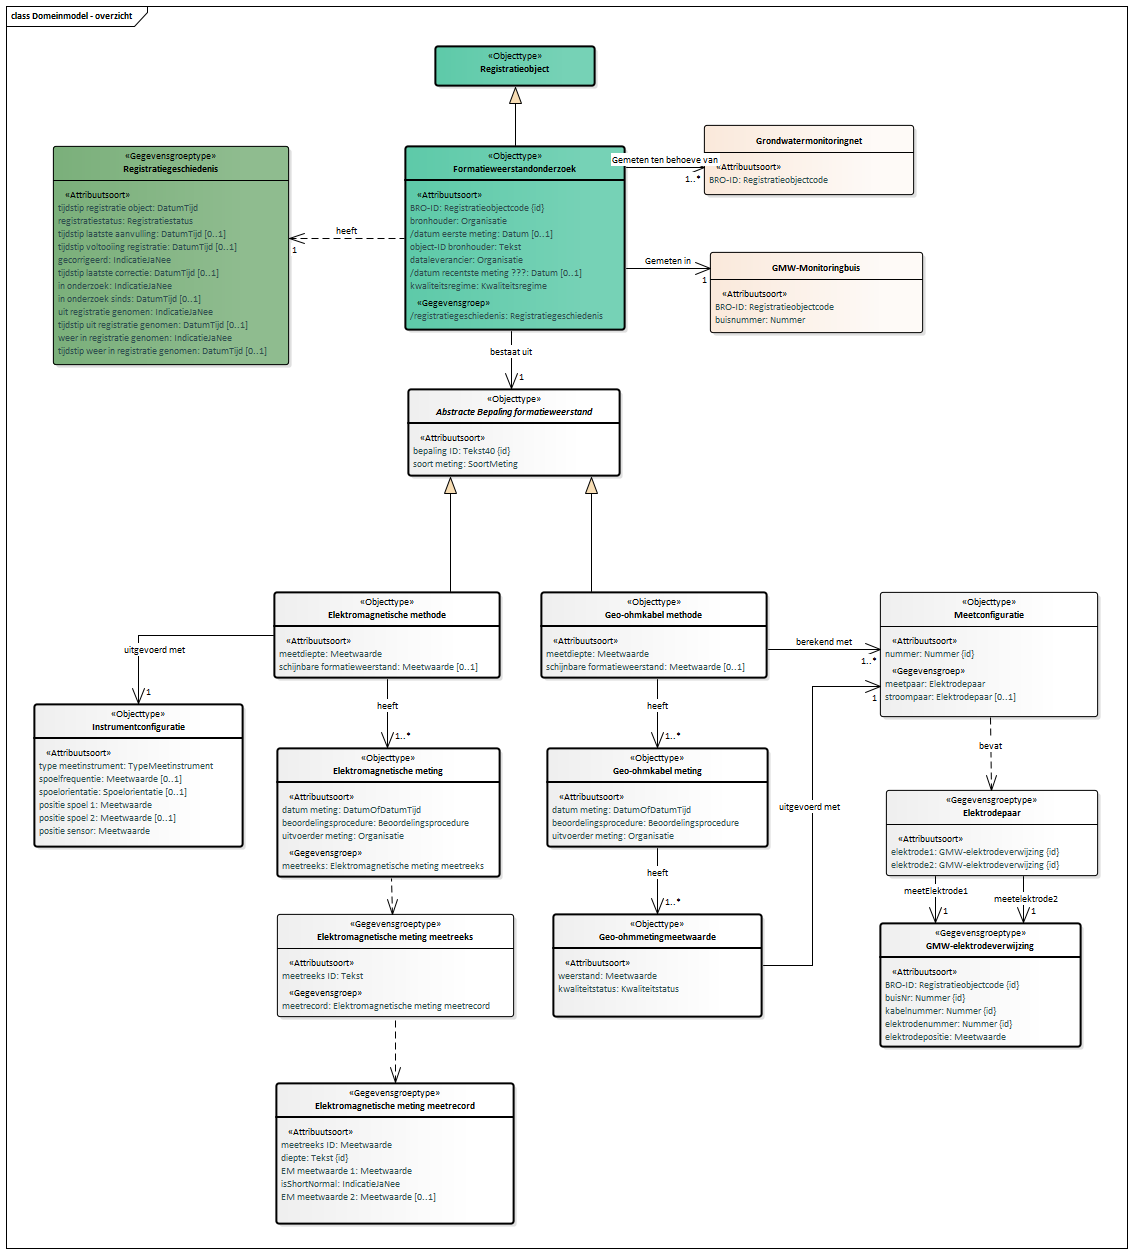
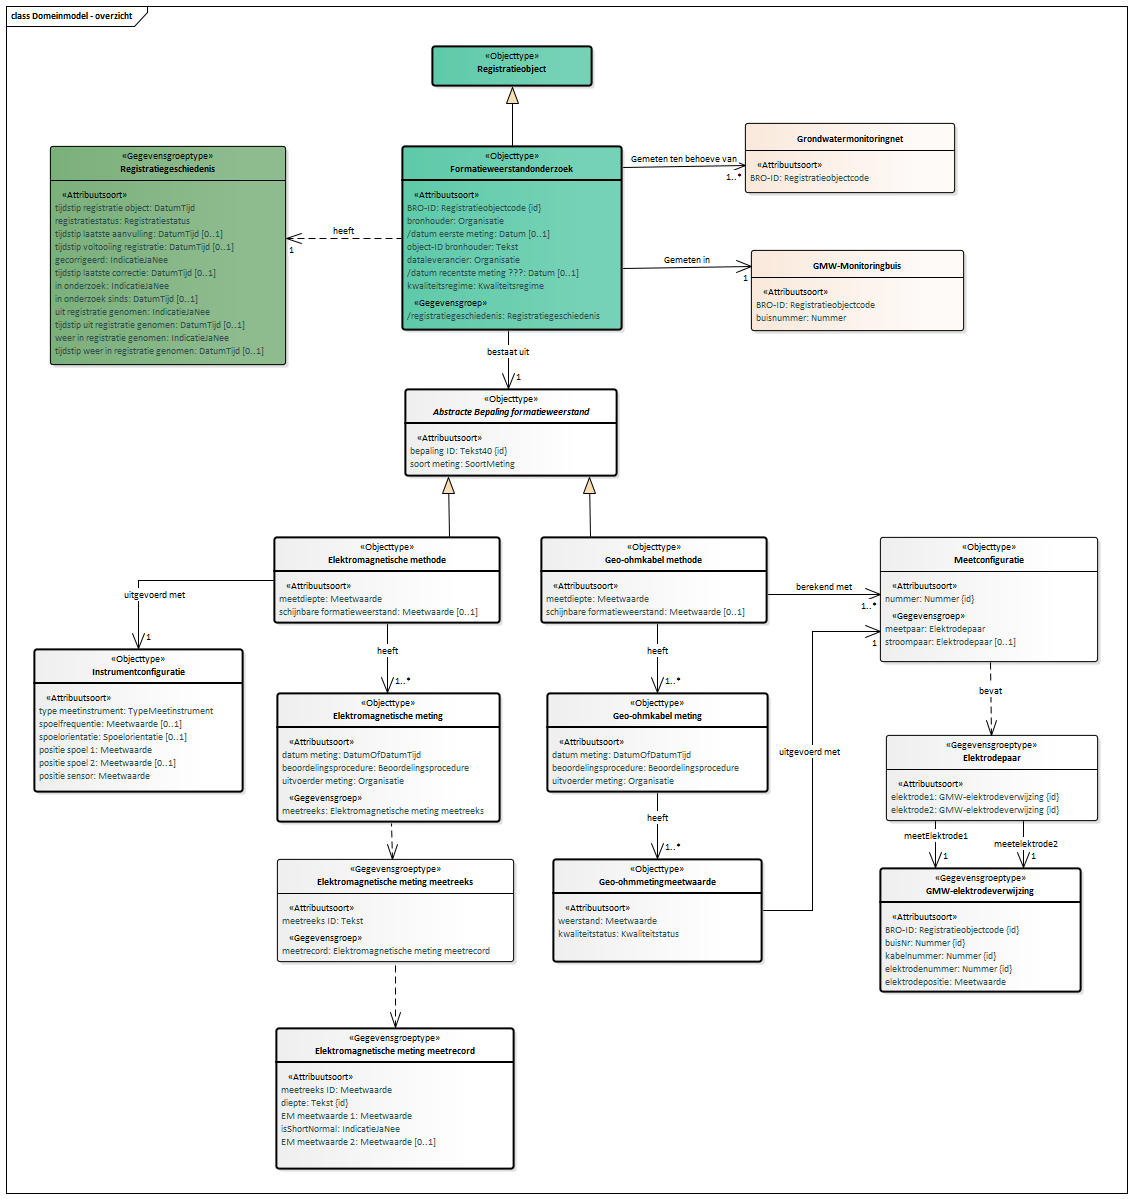
Conceptualmodel-FormatieweerstandonderzoekFRDconceptueel-0.1-1-20200401-20200817-172622

diff --git a/data/FRD-cat.msword.html b/data/FRD-cat.msword.html
@@ -15,7 +15,7 @@
    <body>
       <p>Conceptual model/Formatieweerstand onderzoek (FRD) conceptueel/20200401</p>
       <p>Imvertor: 1.61.2</p>
-      <p>Model release: Conceptualmodel-FormatieweerstandonderzoekFRDconceptueel-0.1-1-20200401-20200817-172333</p>
+      <p>Model release: Conceptualmodel-FormatieweerstandonderzoekFRDconceptueel-0.1-1-20200401-20200817-172622</p>
       <hr>
       <section>
          <h1>Artikel 1 Definitie van registratieobject, entiteiten en attributen</h1>
@@ -60,7 +60,7 @@
          <section>
             <h2>Het domeinmodel</h2>
             <section id="">
-               <div class="imageinfo overview"><img src="Images/EAID_0B3602DB_544E_4f6f_A6E2_DDE4A8A6790E.png" usemap="#imagemap-EAID_0B3602DB_544E_4f6f_A6E2_DDE4A8A6790E" alt="Diagram "><map name="imagemap-EAID_0B3602DB_544E_4f6f_A6E2_DDE4A8A6790E"><area shape="rect" alt="Elektromagnetische meting" coords="277,748,500,877" href="#graph_EAID_CA2EEC38_0161_4d1b_968C_E63B2F5C1547"><area shape="rect" alt="Elektrodepaar" coords="886,790,1098,876" href="#graph_EAID_F78E7F84_132E_4390_A72A_D32759DEBED4"><area shape="rect" alt="Geo-ohmkabel meting" coords="547,748,768,847" href="#graph_EAID_DB9DF92C_83D8_4d54_8B6A_6693052EF4B1"><area shape="rect" alt="Elektromagnetische meting meetreeks" coords="277,914,514,1017" href="#graph_EAID_33450642_9C84_4c07_AFE3_FB734FBA8DBB"><area shape="rect" alt="Geo-ohmmetingmeetwaarde" coords="553,914,762,1017" href="#graph_EAID_0E73504D_4081_4ea3_A7AA_1FB27FBC227B"><area shape="rect" alt="Instrumentconfiguratie" coords="34,704,243,847" href="#graph_EAID_C4102470_4315_4bda_9B2A_59EDEA9E2834"><area shape="rect" alt="Meetconfiguratie" coords="880,592,1098,717" href="#graph_EAID_04636D26_BFC4_4838_AC91_21BB2BF62212"><area shape="rect" alt="Elektromagnetische meting meetrecord" coords="276,1083,514,1224" href="#graph_EAID_17DB4860_7353_467e_89CD_5018D22D8A43"><area shape="rect" alt="Elektromagnetische methode" coords="274,592,500,678" href="#graph_EAID_A1A80DF7_7D38_4063_8DE9_80EDAAF846B4"><area shape="rect" alt="Geo-ohmkabel methode" coords="541,592,767,678" href="#graph_EAID_16AE0361_B385_4410_A632_F5CDCEEC8FD1"><area shape="rect" alt="GMW-elektrodeverwijzing" coords="880,923,1081,1047" href="#graph_EAID_EFFFB8A0_3810_43f9_83F1_FC48EFD1FE4E"><area shape="rect" alt="Abstracte Bepaling formatieweerstand" coords="408,389,620,476" href="#graph_EAID_D3B48B39_96CC_4f01_91F1_BDF0B725CD8A"><area shape="rect" alt="Registratiegeschiedenis" coords="53,146,289,365" href="#graph_EAID_0451B041_6862_420f_9E12_9829516BAF81"><area shape="rect" alt="Formatieweerstandonderzoek" coords="405,146,625,330" href="#graph_EAID_F03C2FC8_5705_46dc_927D_01B7EC61C2F2"><area shape="rect" alt="Registratieobject" coords="435,46,595,86" href="#graph_EAID_5706F7F6_075B_46d6_A47D_7DCF1EEB21B7"></map><p><b>Domeinmodel</b></p>
+               <div class="imageinfo overview"><img src="Images/EAID_0B3602DB_544E_4f6f_A6E2_DDE4A8A6790E.png" usemap="#imagemap-EAID_0B3602DB_544E_4f6f_A6E2_DDE4A8A6790E" alt="Diagram "><map name="imagemap-EAID_0B3602DB_544E_4f6f_A6E2_DDE4A8A6790E"><area shape="rect" alt="Elektromagnetische meting" coords="277,693,500,822" href="#graph_EAID_CA2EEC38_0161_4d1b_968C_E63B2F5C1547"><area shape="rect" alt="Elektrodepaar" coords="886,735,1098,821" href="#graph_EAID_F78E7F84_132E_4390_A72A_D32759DEBED4"><area shape="rect" alt="Geo-ohmkabel meting" coords="547,693,768,792" href="#graph_EAID_DB9DF92C_83D8_4d54_8B6A_6693052EF4B1"><area shape="rect" alt="Elektromagnetische meting meetreeks" coords="277,859,514,962" href="#graph_EAID_33450642_9C84_4c07_AFE3_FB734FBA8DBB"><area shape="rect" alt="Geo-ohmmetingmeetwaarde" coords="553,859,762,962" href="#graph_EAID_0E73504D_4081_4ea3_A7AA_1FB27FBC227B"><area shape="rect" alt="Instrumentconfiguratie" coords="34,649,243,792" href="#graph_EAID_C4102470_4315_4bda_9B2A_59EDEA9E2834"><area shape="rect" alt="Meetconfiguratie" coords="880,537,1098,662" href="#graph_EAID_04636D26_BFC4_4838_AC91_21BB2BF62212"><area shape="rect" alt="Elektromagnetische meting meetrecord" coords="276,1028,514,1169" href="#graph_EAID_17DB4860_7353_467e_89CD_5018D22D8A43"><area shape="rect" alt="Elektromagnetische methode" coords="274,537,500,623" href="#graph_EAID_A1A80DF7_7D38_4063_8DE9_80EDAAF846B4"><area shape="rect" alt="Geo-ohmkabel methode" coords="541,537,767,623" href="#graph_EAID_16AE0361_B385_4410_A632_F5CDCEEC8FD1"><area shape="rect" alt="GMW-elektrodeverwijzing" coords="880,868,1081,992" href="#graph_EAID_EFFFB8A0_3810_43f9_83F1_FC48EFD1FE4E"><area shape="rect" alt="Abstracte Bepaling formatieweerstand" coords="405,389,617,476" href="#graph_EAID_D3B48B39_96CC_4f01_91F1_BDF0B725CD8A"><area shape="rect" alt="Registratiegeschiedenis" coords="50,146,286,365" href="#graph_EAID_0451B041_6862_420f_9E12_9829516BAF81"><area shape="rect" alt="Formatieweerstandonderzoek" coords="402,146,622,330" href="#graph_EAID_F03C2FC8_5705_46dc_927D_01B7EC61C2F2"><area shape="rect" alt="Registratieobject" coords="432,46,592,86" href="#graph_EAID_5706F7F6_075B_46d6_A47D_7DCF1EEB21B7"></map><p><b>Domeinmodel</b></p>
                </div>
             </section>
          </section>
